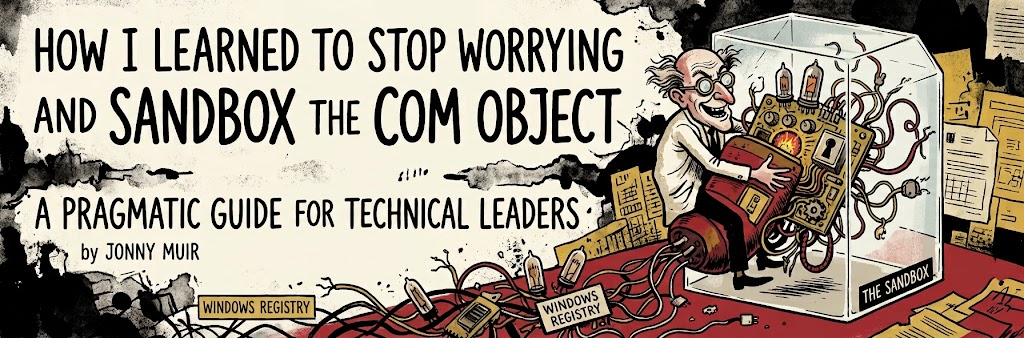
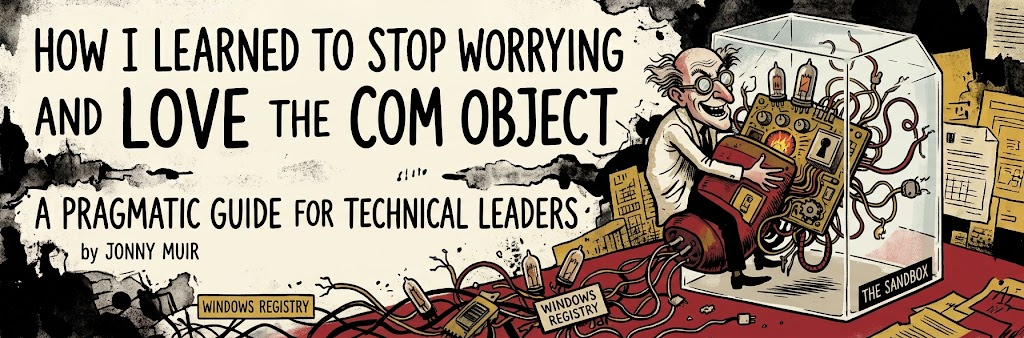
fix: title

diff --git a/_posts/2026-09-02-COM.md b/_posts/2026-09-02-COM.md
@@ -1,7 +1,7 @@
 ---
 layout: post
 image: strangelove
-title: How I Learned to Stop Worrying and Sandbox the COM Object
+title: How I Learned to Stop Worrying and Love the COM Object
 ---
 Demystifying COM: From Machine Code to Process Isolation
 
